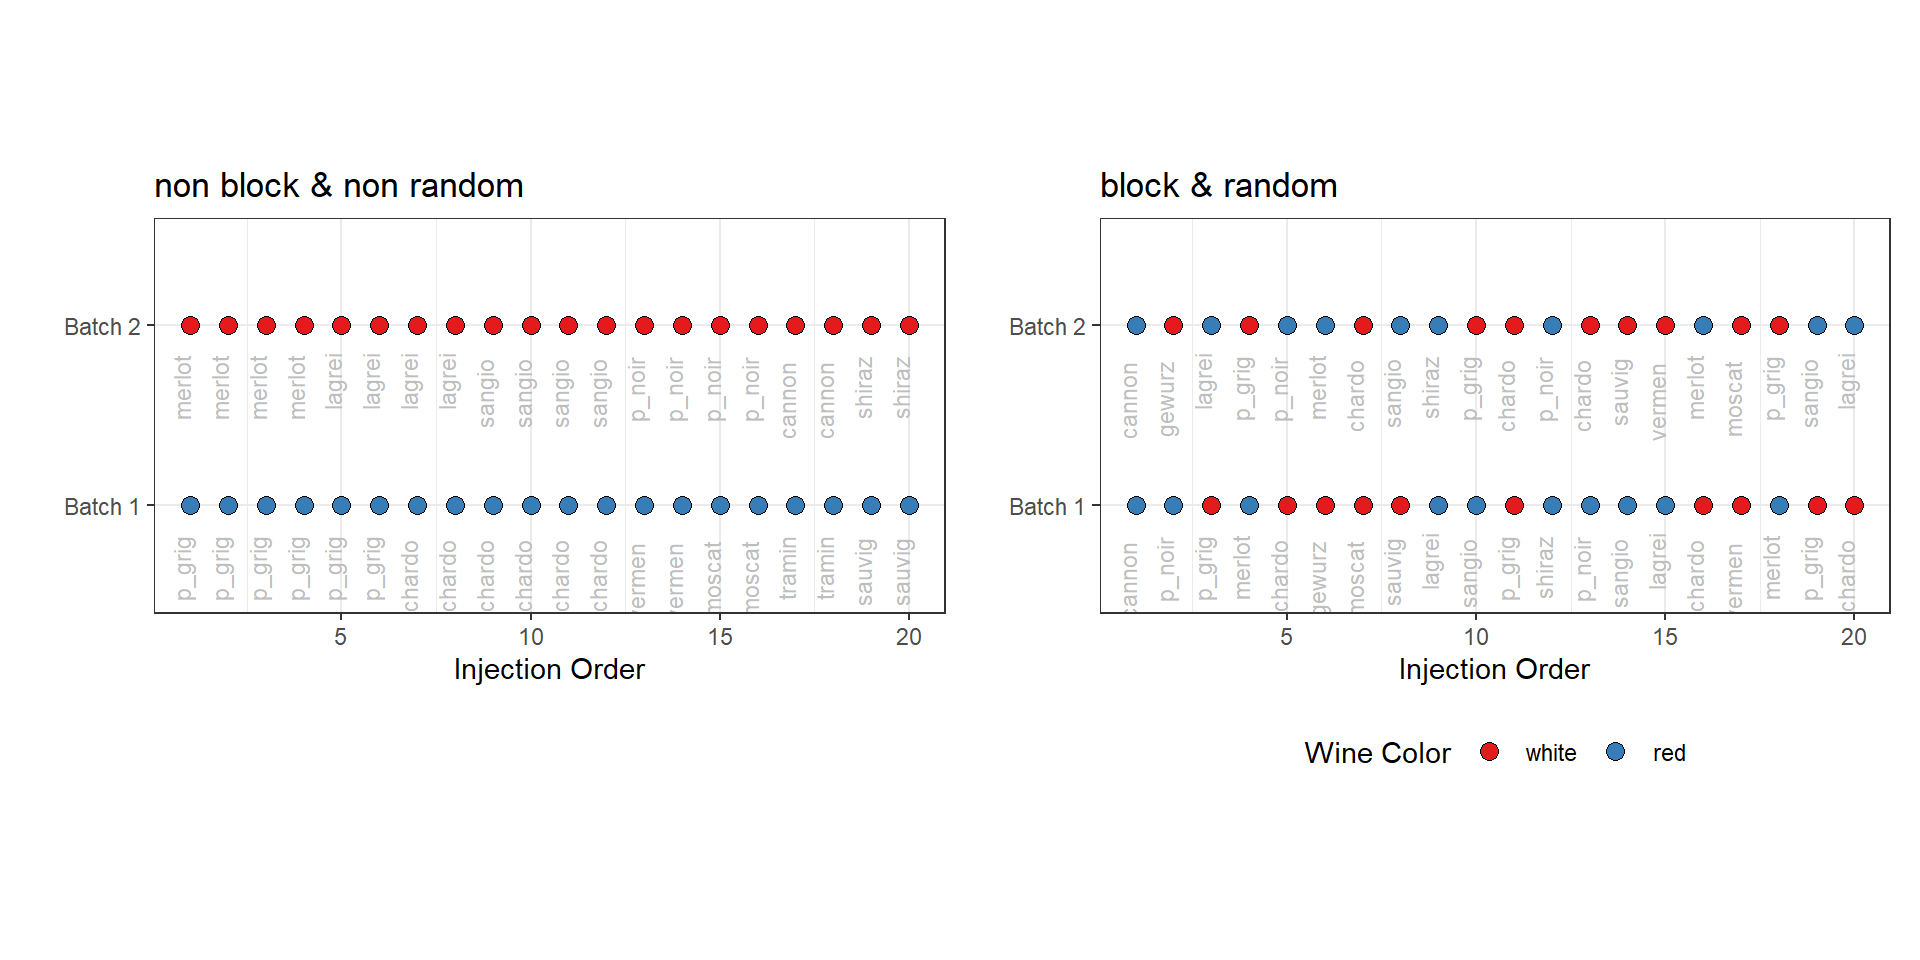
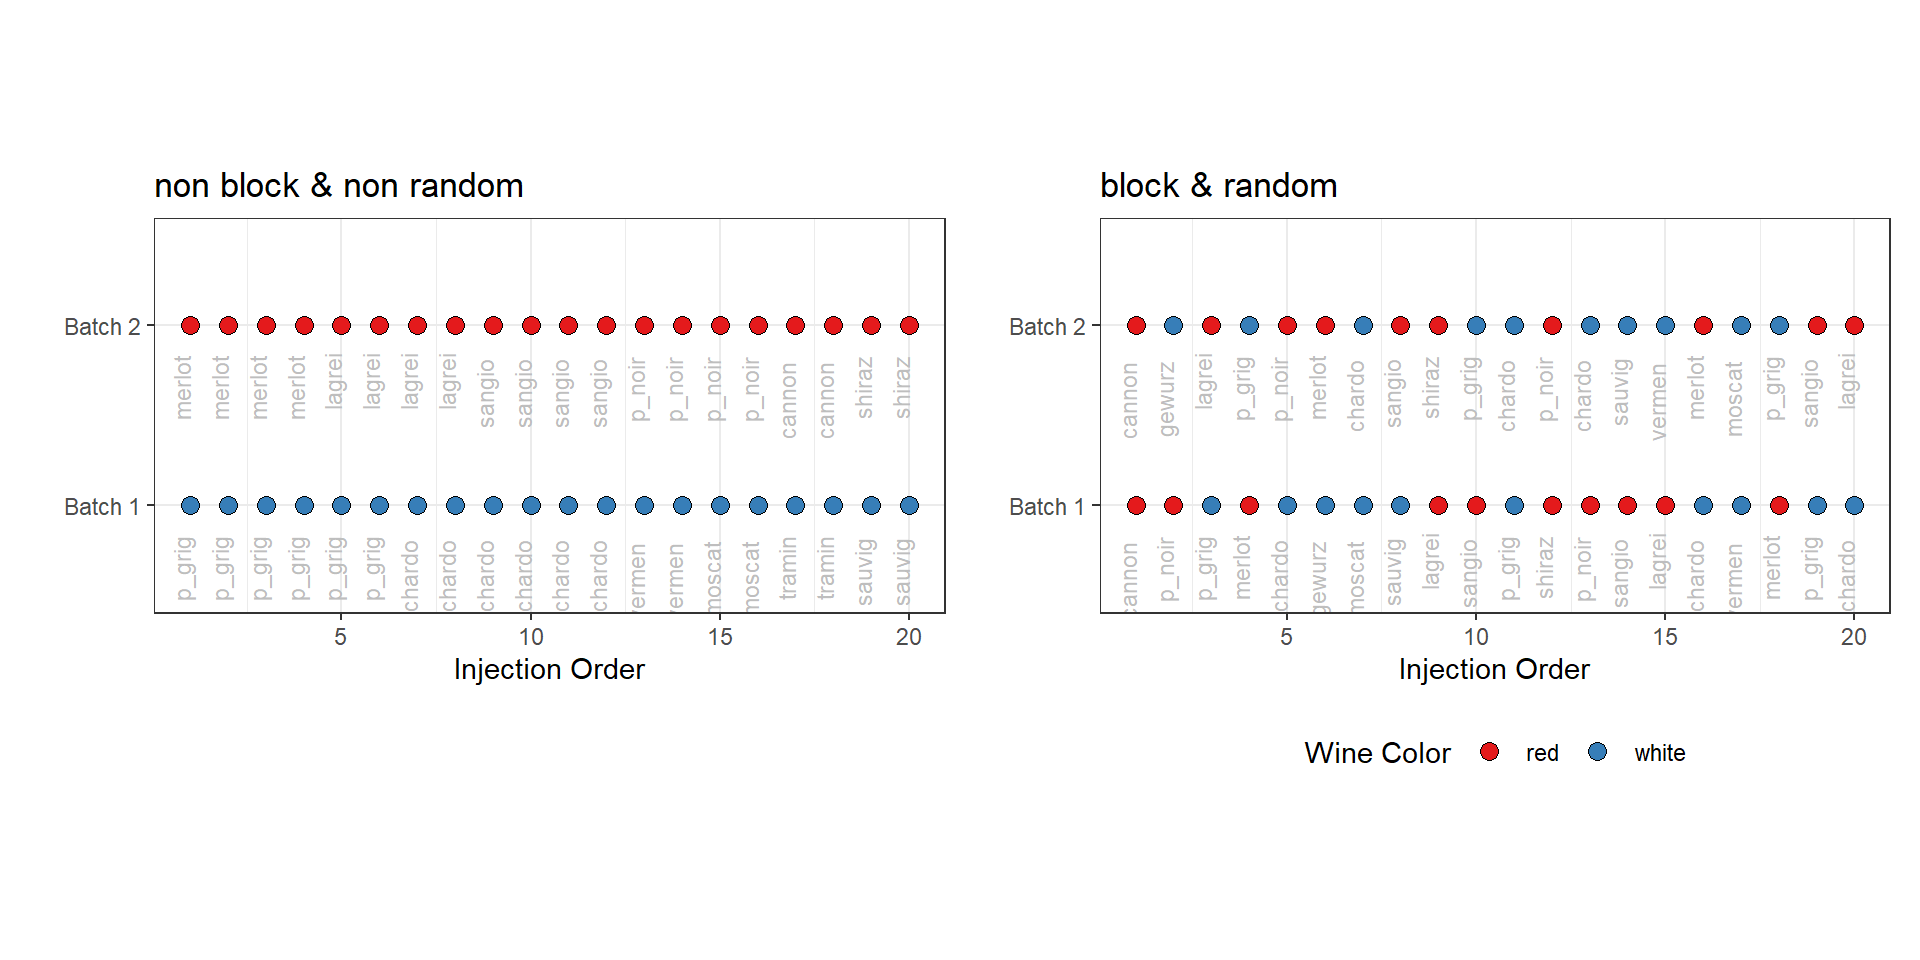
update QC presentation

Changed region(s): [[0.5938, 0.5, 0.9688, 0.5312], [0.5938, 0.3125, 0.9688, 0.3438], [0.7812, 0.75, 0.875, 0.8125]]

diff --git a/theoretical/QC_samples.html b/theoretical/QC_samples.html
@@ -572,9 +572,9 @@ white   red
 <div class="cell">
 <div class="cell-output cell-output-stdout">
 <pre><code>         
-          white red
-  Batch 1    10  10
-  Batch 2    10  10</code></pre>
+          red white
+  Batch 1  10    10
+  Batch 2  10    10</code></pre>
 </div>
 <div class="cell-output cell-output-stdout">
 <pre><code>         
@@ -597,11 +597,11 @@ white   red
 <ul>
 <li class="fragment">2 foods: A &amp; B<br>
 </li>
+<li class="fragment">2 sequences: A -&gt; B / B -&gt; A<br>
+</li>
 <li class="fragment">10 volunteers (5 men &amp; 5 women)<br>
 </li>
-<li class="fragment">8 time-points /intervention<br>
-</li>
-<li class="fragment">2 sequences: A -&gt; B / B -&gt; A</li>
+<li class="fragment">8 time-points /intervention</li>
 </ul>
 </div>
 </section>
@@ -613,11 +613,11 @@ white   red
 <ul>
 <li>2 foods: A &amp; B<br>
 </li>
+<li>2 sequences<br>
+</li>
 <li>10 volunteers<br>
 </li>
-<li>8 time-points /intervention<br>
-</li>
-<li>2 sequences</li>
+<li>8 time-points /intervention</li>
 </ul>
 </div><div class="column" style="width:65%;">
 <div class="cell">
@@ -937,168 +937,87 @@ white   red
 <h3 id="step-5-randomize-samples">Step 5: randomize samples</h3>
 <div class="cell">
 <div class="cell-output cell-output-stdout">
-<pre><code> volunteer gender food time batch rnd       volunteer gender food time batch
-         1   male    A    0     2 159               6 female    A    0     2
-         1   male    A    1     2  14               6 female    A    1     2
-         1   male    A    2     2  50               6 female    A    2     2
-         1   male    A    4     2 118               6 female    A    4     2
-         1   male    A    6     2  43               6 female    A    6     2
-         1   male    A   12     2 160               6 female    A   12     2
-         1   male    A   24     2 157               6 female    A   24     2
-         1   male    A   48     2 153               6 female    A   48     2
-         1   male    B    0     2  90               6 female    B    0     2
-         1   male    B    1     2  91               6 female    B    1     2
-         1   male    B    2     2 151               6 female    B    2     2
-         1   male    B    4     2  92               6 female    B    4     2
-         1   male    B    6     2 137               6 female    B    6     2
-         1   male    B   12     2  99               6 female    B   12     2
-         1   male    B   24     2  72               6 female    B   24     2
-         1   male    B   48     2  26               6 female    B   48     2
-         2   male    A    0     1   7               7 female    A    0     2
-         2   male    A    1     1 148               7 female    A    1     2
-         2   male    A    2     1  78               7 female    A    2     2
-         2   male    A    4     1  81               7 female    A    4     2
-         2   male    A    6     1 156               7 female    A    6     2
-         2   male    A   12     1 103               7 female    A   12     2
-         2   male    A   24     1 117               7 female    A   24     2
-         2   male    A   48     1  76               7 female    A   48     2
-         2   male    B    0     1  32               7 female    B    0     2
-         2   male    B    1     1 109               7 female    B    1     2
-         2   male    B    2     1 144               7 female    B    2     2
-         2   male    B    4     1  74               7 female    B    4     2
-         2   male    B    6     1  23               7 female    B    6     2
-         2   male    B   12     1  53               7 female    B   12     2
-         2   male    B   24     1 131               7 female    B   24     2
-         2   male    B   48     1  34               7 female    B   48     2
-         3   male    A    0     1  93               8 female    A    0     1
-         3   male    A    1     1  69               8 female    A    1     1
-         3   male    A    2     1 146               8 female    A    2     1
-         3   male    A    4     1 143               8 female    A    4     1
-         3   male    A    6     1  63               8 female    A    6     1
-         3   male    A   12     1  13               8 female    A   12     1
-         3   male    A   24     1  82               8 female    A   24     1
-         3   male    A   48     1  97               8 female    A   48     1
-         3   male    B    0     1 150               8 female    B    0     1
-         3   male    B    1     1  25               8 female    B    1     1
-         3   male    B    2     1  38               8 female    B    2     1
-         3   male    B    4     1  21               8 female    B    4     1
-         3   male    B    6     1  79               8 female    B    6     1
-         3   male    B   12     1  41               8 female    B   12     1
-         3   male    B   24     1  47               8 female    B   24     1
-         3   male    B   48     1 152               8 female    B   48     1
-         4   male    A    0     2  60               9 female    A    0     1
-         4   male    A    1     2  95               9 female    A    1     1
-         4   male    A    2     2  16               9 female    A    2     1
-         4   male    A    4     2  94               9 female    A    4     1
-         4   male    A    6     2   6               9 female    A    6     1
-         4   male    A   12     2 107               9 female    A   12     1
-         4   male    A   24     2 126               9 female    A   24     1
-         4   male    A   48     2  86               9 female    A   48     1
-         4   male    B    0     2 105               9 female    B    0     1
-         4   male    B    1     2  39               9 female    B    1     1
-         4   male    B    2     2  31               9 female    B    2     1
-         4   male    B    4     2 141               9 female    B    4     1
-         4   male    B    6     2 158               9 female    B    6     1
-         4   male    B   12     2 129               9 female    B   12     1
-         4   male    B   24     2   4               9 female    B   24     1
-         4   male    B   48     2 123               9 female    B   48     1
-         5   male    A    0     1 127              10 female    A    0     2
-         5   male    A    1     1 119              10 female    A    1     2
-         5   male    A    2     1  52              10 female    A    2     2
-         5   male    A    4     1  22              10 female    A    4     2
-         5   male    A    6     1  89              10 female    A    6     2
-         5   male    A   12     1 136              10 female    A   12     2
-         5   male    A   24     1 111              10 female    A   24     2
-         5   male    A   48     1  87              10 female    A   48     2
-         5   male    B    0     1  35              10 female    B    0     2
-         5   male    B    1     1  40              10 female    B    1     2
-         5   male    B    2     1  30              10 female    B    2     2
-         5   male    B    4     1  12              10 female    B    4     2
-         5   male    B    6     1 102              10 female    B    6     2
-         5   male    B   12     1 104              10 female    B   12     2
-         5   male    B   24     1  64              10 female    B   24     2
-         5   male    B   48     1 155              10 female    B   48     2
- rnd
-  71
-  67
- 132
-  37
-   8
-  51
- 133
- 100
-  46
-  17
-  62
- 106
-  54
-  88
-  24
- 134
-  29
-  15
- 142
- 145
- 154
-  96
- 120
-  65
-  27
-  42
-   5
- 108
- 110
-  66
-  58
- 138
-  11
-  36
-  44
-  19
- 113
- 139
-  61
-   9
-  57
- 147
- 121
-  45
-  98
-   1
-  83
- 140
-  20
-  59
- 135
-  75
- 128
-  48
-  33
-  73
- 125
-   3
- 114
-  84
-  85
-  80
-  10
-  56
- 115
- 149
- 122
-  68
-   2
-  77
- 130
-  55
- 101
-  28
-  49
- 124
- 116
- 112
-  18
-  70</code></pre>
+<pre><code> volunteer gender food time batch rnd      volunteer gender food time batch rnd
+         1   male    A    0     2 159              6 female    A    0     2  71
+         1   male    A    1     2  14              6 female    A    1     2  67
+         1   male    A    2     2  50              6 female    A    2     2 132
+         1   male    A    4     2 118              6 female    A    4     2  37
+         1   male    A    6     2  43              6 female    A    6     2   8
+         1   male    A   12     2 160              6 female    A   12     2  51
+         1   male    A   24     2 157              6 female    A   24     2 133
+         1   male    A   48     2 153              6 female    A   48     2 100
+         1   male    B    0     2  90              6 female    B    0     2  46
+         1   male    B    1     2  91              6 female    B    1     2  17
+         1   male    B    2     2 151              6 female    B    2     2  62
+         1   male    B    4     2  92              6 female    B    4     2 106
+         1   male    B    6     2 137              6 female    B    6     2  54
+         1   male    B   12     2  99              6 female    B   12     2  88
+         1   male    B   24     2  72              6 female    B   24     2  24
+         1   male    B   48     2  26              6 female    B   48     2 134
+         2   male    A    0     1   7              7 female    A    0     2  29
+         2   male    A    1     1 148              7 female    A    1     2  15
+         2   male    A    2     1  78              7 female    A    2     2 142
+         2   male    A    4     1  81              7 female    A    4     2 145
+         2   male    A    6     1 156              7 female    A    6     2 154
+         2   male    A   12     1 103              7 female    A   12     2  96
+         2   male    A   24     1 117              7 female    A   24     2 120
+         2   male    A   48     1  76              7 female    A   48     2  65
+         2   male    B    0     1  32              7 female    B    0     2  27
+         2   male    B    1     1 109              7 female    B    1     2  42
+         2   male    B    2     1 144              7 female    B    2     2   5
+         2   male    B    4     1  74              7 female    B    4     2 108
+         2   male    B    6     1  23              7 female    B    6     2 110
+         2   male    B   12     1  53              7 female    B   12     2  66
+         2   male    B   24     1 131              7 female    B   24     2  58
+         2   male    B   48     1  34              7 female    B   48     2 138
+         3   male    A    0     1  93              8 female    A    0     1  11
+         3   male    A    1     1  69              8 female    A    1     1  36
+         3   male    A    2     1 146              8 female    A    2     1  44
+         3   male    A    4     1 143              8 female    A    4     1  19
+         3   male    A    6     1  63              8 female    A    6     1 113
+         3   male    A   12     1  13              8 female    A   12     1 139
+         3   male    A   24     1  82              8 female    A   24     1  61
+         3   male    A   48     1  97              8 female    A   48     1   9
+         3   male    B    0     1 150              8 female    B    0     1  57
+         3   male    B    1     1  25              8 female    B    1     1 147
+         3   male    B    2     1  38              8 female    B    2     1 121
+         3   male    B    4     1  21              8 female    B    4     1  45
+         3   male    B    6     1  79              8 female    B    6     1  98
+         3   male    B   12     1  41              8 female    B   12     1   1
+         3   male    B   24     1  47              8 female    B   24     1  83
+         3   male    B   48     1 152              8 female    B   48     1 140
+         4   male    A    0     2  60              9 female    A    0     1  20
+         4   male    A    1     2  95              9 female    A    1     1  59
+         4   male    A    2     2  16              9 female    A    2     1 135
+         4   male    A    4     2  94              9 female    A    4     1  75
+         4   male    A    6     2   6              9 female    A    6     1 128
+         4   male    A   12     2 107              9 female    A   12     1  48
+         4   male    A   24     2 126              9 female    A   24     1  33
+         4   male    A   48     2  86              9 female    A   48     1  73
+         4   male    B    0     2 105              9 female    B    0     1 125
+         4   male    B    1     2  39              9 female    B    1     1   3
+         4   male    B    2     2  31              9 female    B    2     1 114
+         4   male    B    4     2 141              9 female    B    4     1  84
+         4   male    B    6     2 158              9 female    B    6     1  85
+         4   male    B   12     2 129              9 female    B   12     1  80
+         4   male    B   24     2   4              9 female    B   24     1  10
+         4   male    B   48     2 123              9 female    B   48     1  56
+         5   male    A    0     1 127             10 female    A    0     2 115
+         5   male    A    1     1 119             10 female    A    1     2 149
+         5   male    A    2     1  52             10 female    A    2     2 122
+         5   male    A    4     1  22             10 female    A    4     2  68
+         5   male    A    6     1  89             10 female    A    6     2   2
+         5   male    A   12     1 136             10 female    A   12     2  77
+         5   male    A   24     1 111             10 female    A   24     2 130
+         5   male    A   48     1  87             10 female    A   48     2  55
+         5   male    B    0     1  35             10 female    B    0     2 101
+         5   male    B    1     1  40             10 female    B    1     2  28
+         5   male    B    2     1  30             10 female    B    2     2  49
+         5   male    B    4     1  12             10 female    B    4     2 124
+         5   male    B    6     1 102             10 female    B    6     2 116
+         5   male    B   12     1 104             10 female    B   12     2 112
+         5   male    B   24     1  64             10 female    B   24     2  18
+         5   male    B   48     1 155             10 female    B   48     2  70</code></pre>
 </div>
 </div>
 </section>
